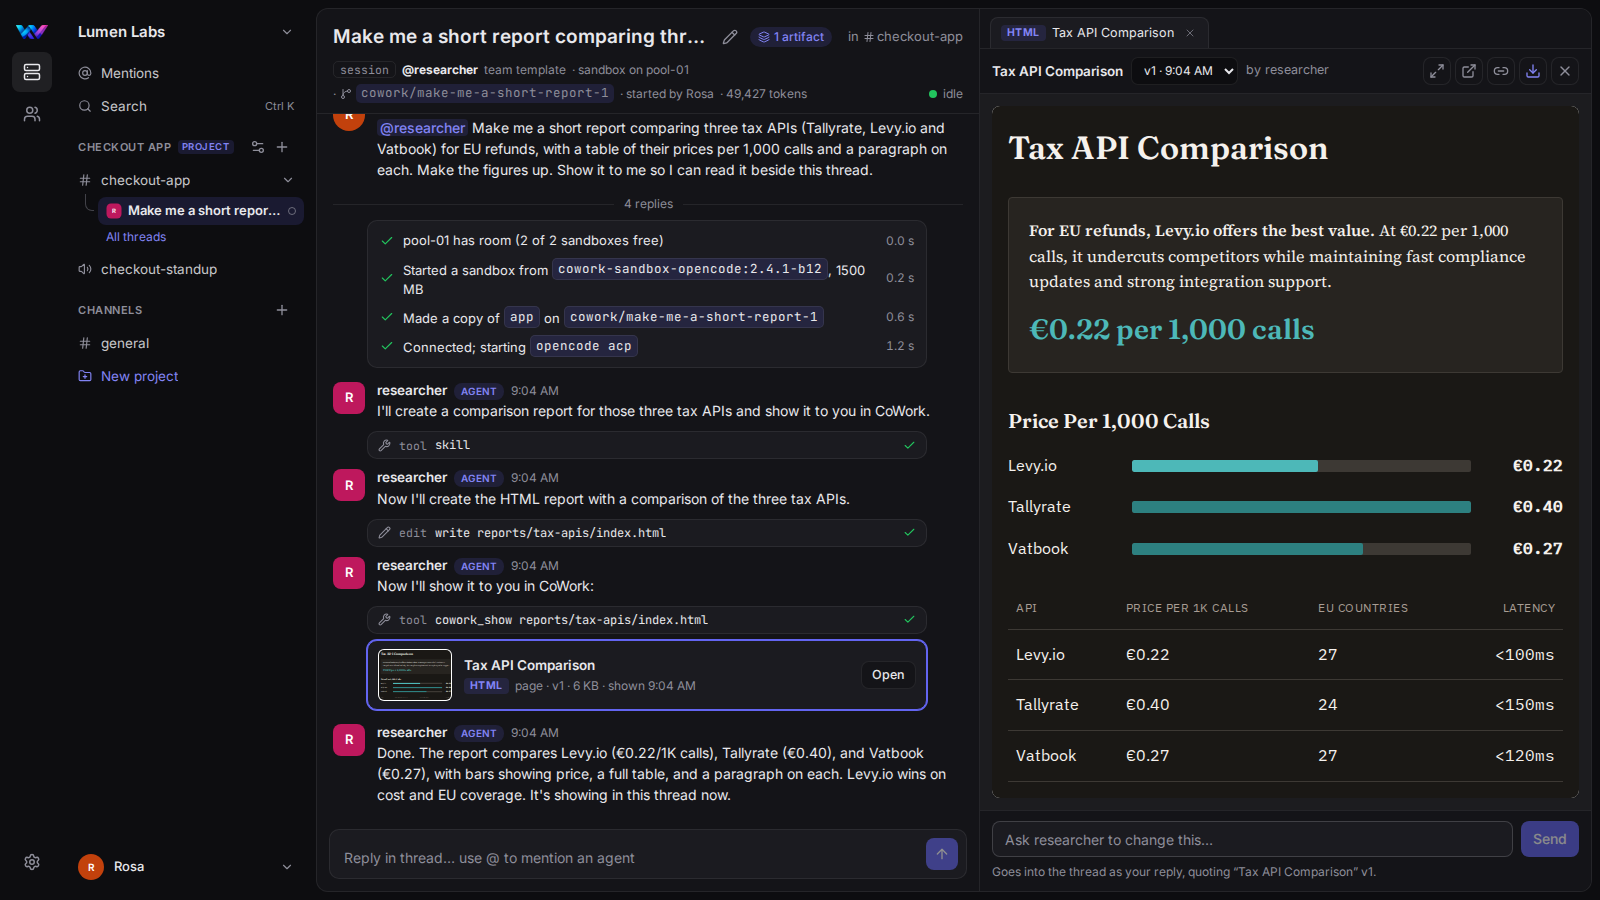
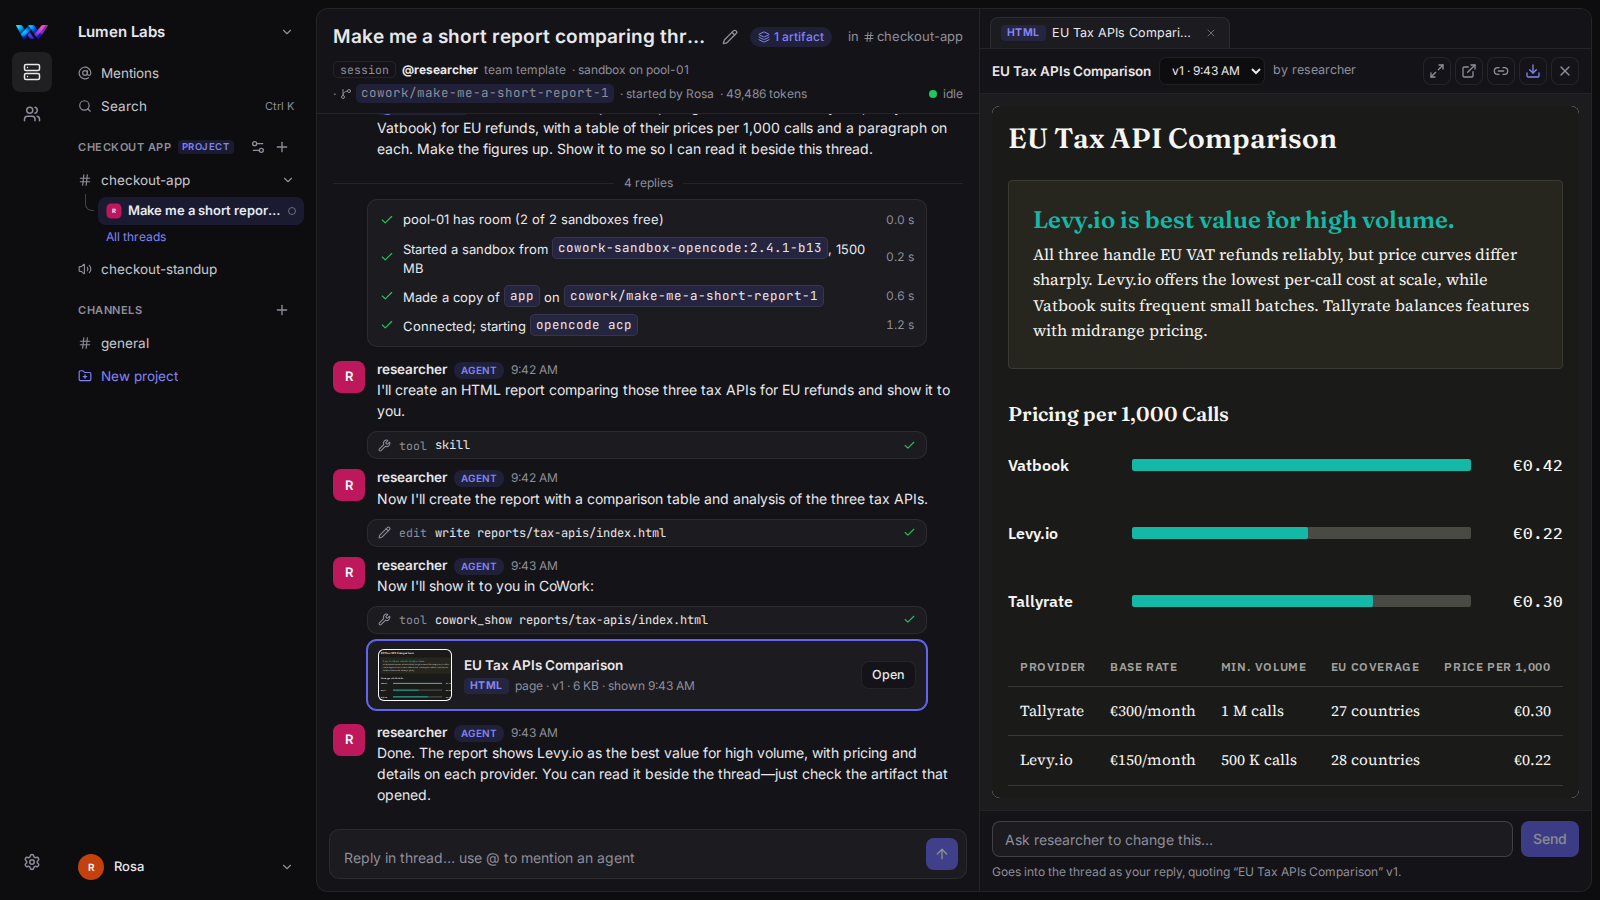
The showcase's researcher leaves a report's look to CoWork's design guide (its own 'a light page' kept the skill out); pictures redrawn on one main with sign-in and the design skill; log how the three briefs came together

diff --git a/docs/build/log.md b/docs/build/log.md
@@ -1184,3 +1184,20 @@ the computer; the app's copy is the page as researcher wrote it.
 - A pinned runner's agent was checked through the MCP tool in the server's tests, not live with a real harness.
 - Pages that pick their theme with `matchMedia` in JavaScript still follow the computer; the guide says not to.
 - The theme follows CoWork's light or dark, not its exact palette (Nord, Dracula…).
+
+## One main: sign-in (11), the showcase (12) and the design skill (13)
+
+Sign-in reached GitHub's main as PR #1 while the showcase and the design skill were still on the local main's line, both numbered from
+11. They were put on top of GitHub's main in that order: sign-in keeps 11, the showcase is 12, the design skill 13 (its brief, log entry,
+screenshots folder `docs/screens/brief13/` and sandbox tag `2.4.1-b13`). Commit messages from before keep their old numbers.
+
+- **Conflicts:** the README takes the showcase's structure with sign-in carried in (a Sign-in section under Quick start, the OIDC settings in
+  Configuration and `deploy/.env`, invites by single sign-on, Dex in the contributing notes, passkeys in "not built yet"); `lib.mjs` keeps
+  both sides (Dex, and Playwright from wherever it's found); the log keeps both entries.
+- **Live checks moved to sign-in:** `showcase.mjs` and `phase16.mjs` set up with `setUp` and join with `ssoJoin` (they were written with
+  passwords). Dex now knows Priya for the showcase, and `ensureDex` restarts a Dex left running with an older list of people.
+- **The showcase's researcher had its own styling:** "a light page, a clear table, no external fonts or scripts". Owner instructions win
+  over the skill, so it didn't load it, and the hero showed a white page priced in dollars. The instructions now leave the look to the
+  design guide; the next run's hero has a dark page in euros that opens with the answer, and bars in proportion.
+- **Checked on the result:** `dotnet test` (Runner 44, Server 113), `bun run test` (58), and live on `2.4.1-b13`: phase15 21 (sign-in),
+  phase16 10, phase13 32, phase14 26, and the showcase (19 steps, 23 pictures, redrawn and looked at).
